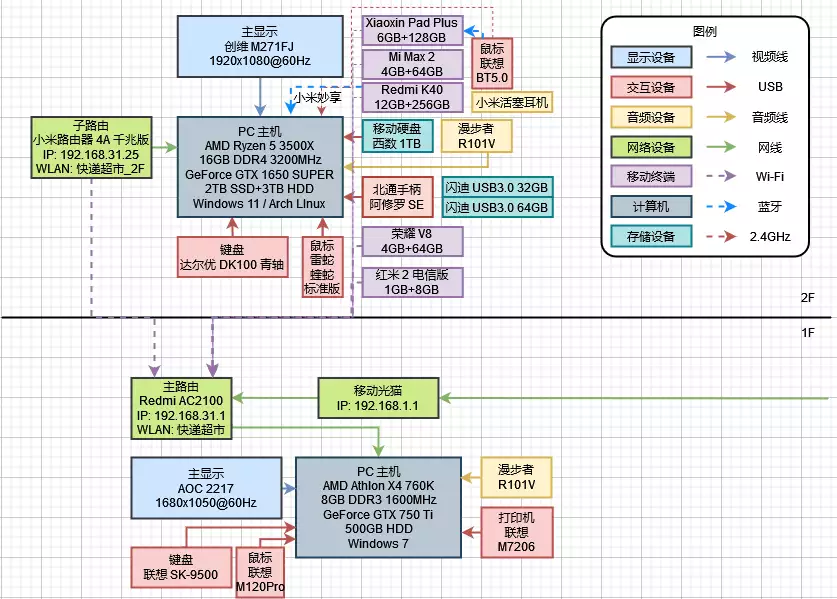
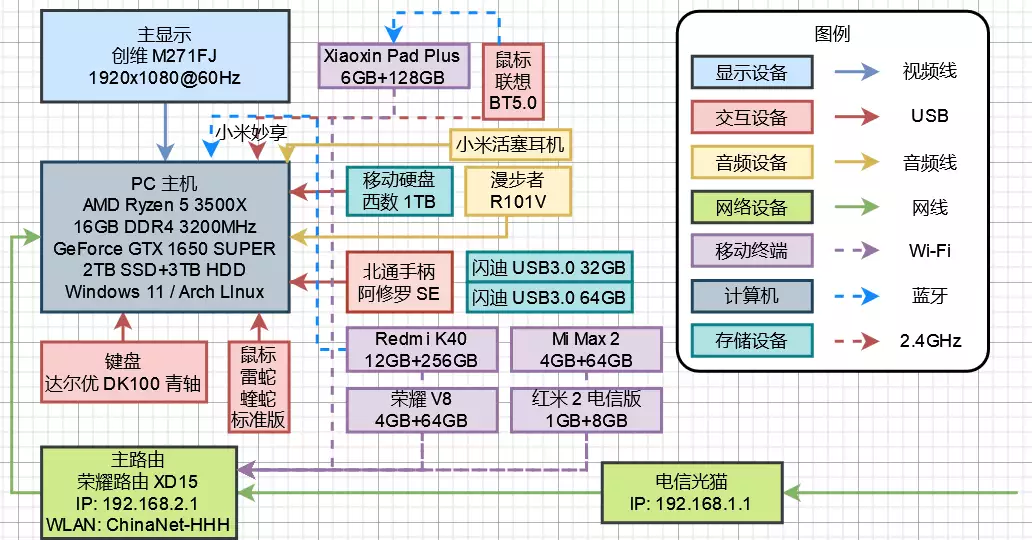
Update device-map

diff --git a/source/_posts/2022-01-27-my-devices.md b/source/_posts/2022-01-27-my-devices.md
@@ -34,17 +34,6 @@ top_img: false
 - **屏幕**: 6.67" AMOLED (2400x1080)
 - **OS**: Android 13 (MIUI 14)
 
-### 小米 Max 2
-- **是否主力**: 否
-- **备注**: 电池续航有衰减
-- **购买时间**: 2017-09-12
-- **SoC**: 高通骁龙 625
-- **GPU**: Adreno 506
-- **RAM**: 4GB LPDDR3
-- **ROM**: 64GB eMMC
-- **屏幕**: 6.44" LCD (1920x1080)
-- **OS**: Android 7.1.1 (MIUI 11)
-
 ### 荣耀 V8 高配版
 - **是否主力**: 否
 - **备注**: 由于更换了非官方副板，USB 口无法传输数据；电池续航有衰减
@@ -68,7 +57,7 @@ top_img: false
 
 ## 非活跃设备
 ### 自组装台式 PC
-- **不活跃原因**: 已有主力 PC
+- **不活跃原因**: 不在常住处
 - **购买时间**: 2014-11
 - **CPU**: AMD Athlon X4 760K
 - **GPU**: NVIDIA GeForce GTX 750 Ti (2GB GDDR5)
@@ -77,6 +66,17 @@ top_img: false
 - **HDD**: 希捷 ST500DM002 500GB SATA
 - **显示器**: AOC 2217 22" (1680x1050)
 - **OS**: Windows 7 SP1 64-bit
+
+### 小米 Max 2
+- **不活跃原因**: 他人使用
+- **备注**: 电池续航有衰减
+- **购买时间**: 2017-09-12
+- **SoC**: 高通骁龙 625
+- **GPU**: Adreno 506
+- **RAM**: 4GB LPDDR3
+- **ROM**: 64GB eMMC
+- **屏幕**: 6.44" LCD (1920x1080)
+- **OS**: Android 7.1.1 (MIUI 11)
 
 ### 红米 Note 4
 - **不活跃原因**: 电池衰减严重
